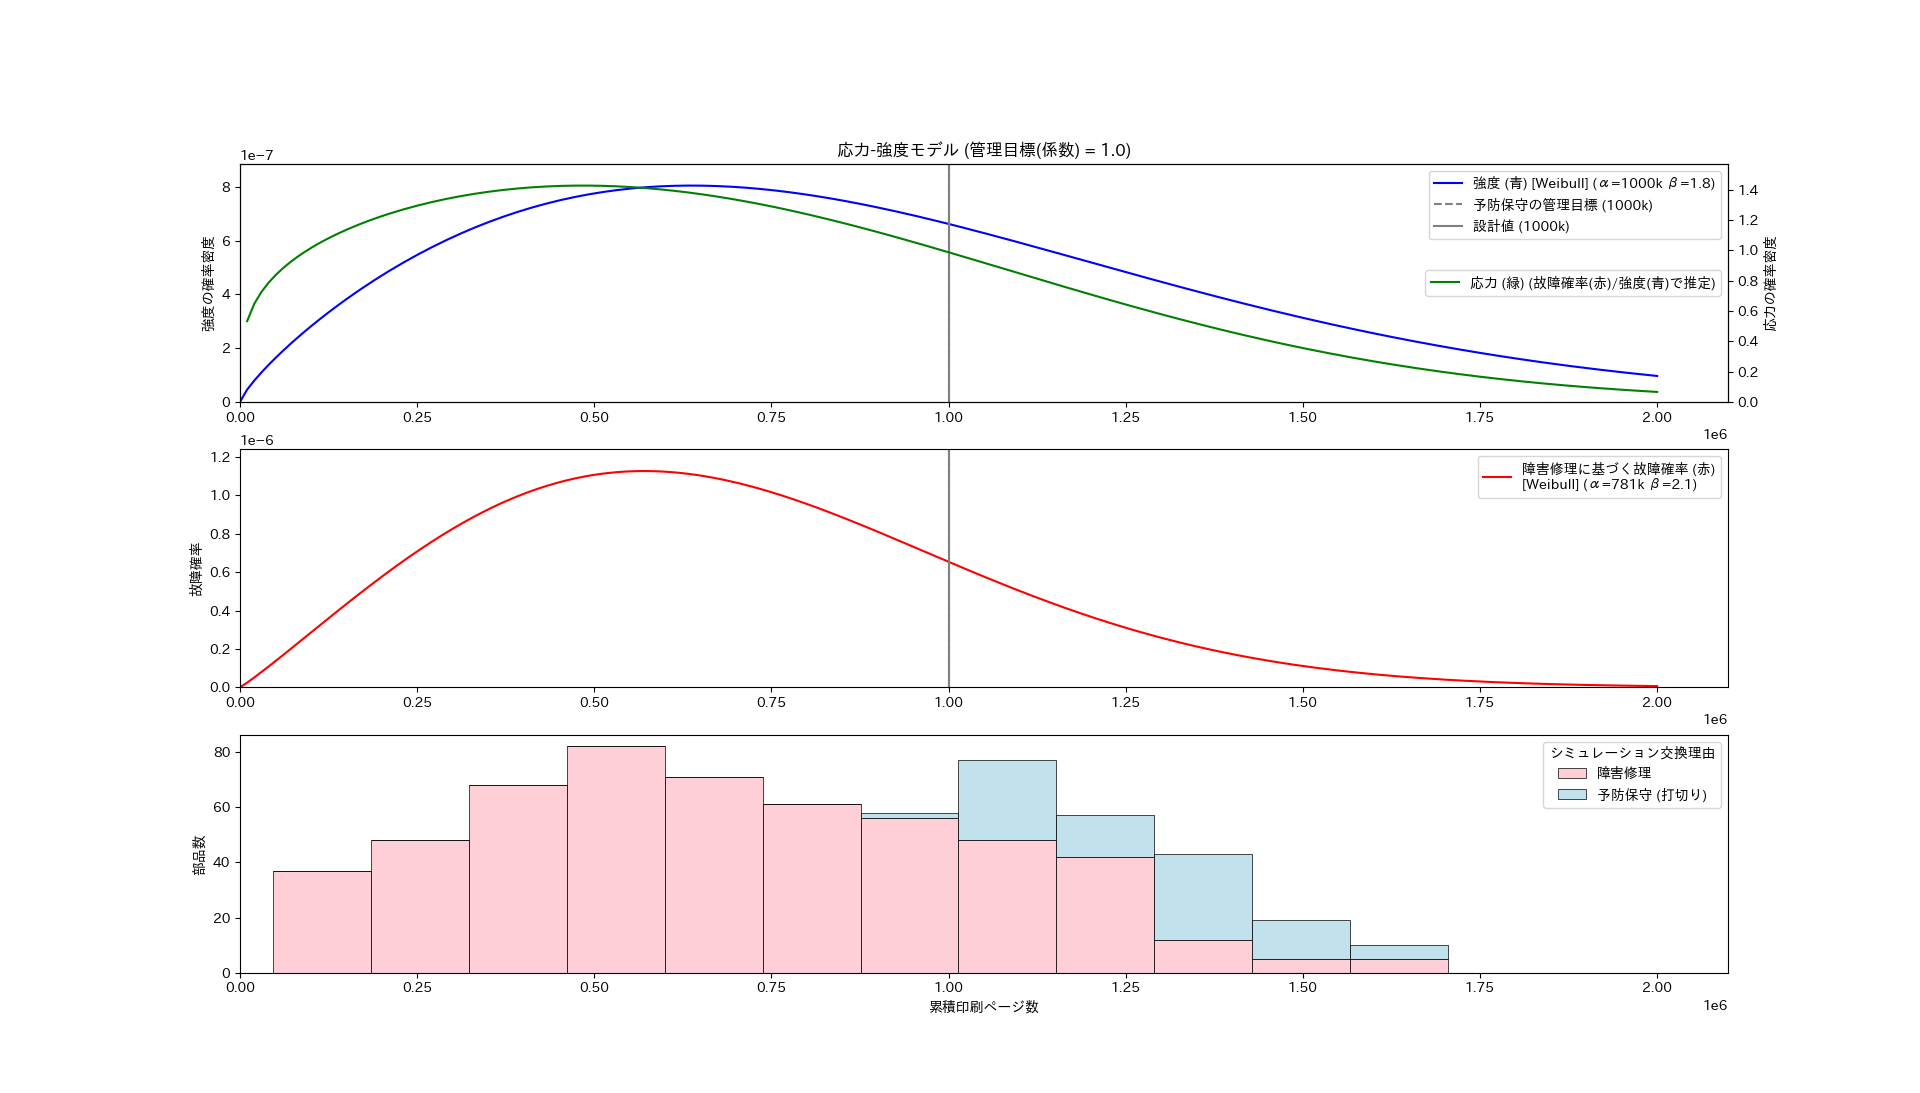
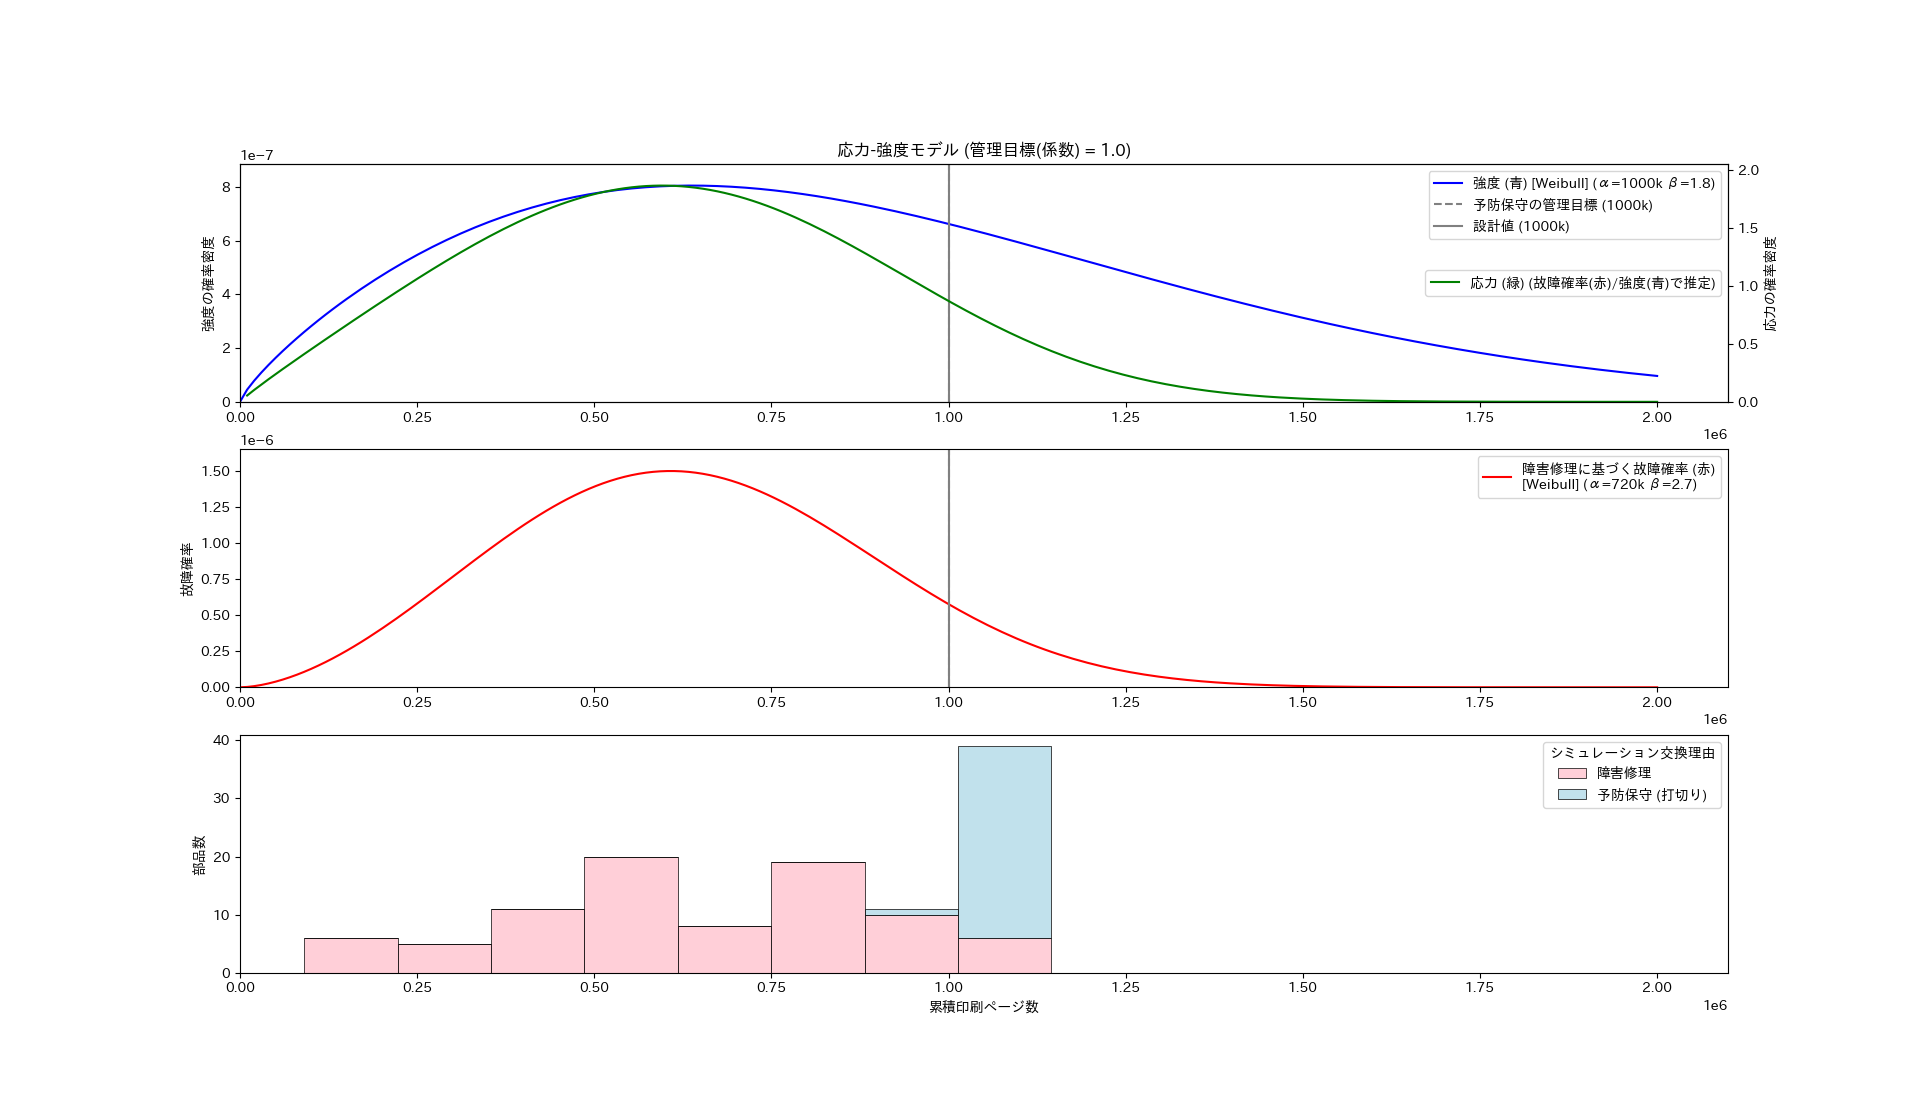
UPDATED

diff --git a/article2/sim_component_failure.py b/article2/sim_component_failure.py
@@ -156,23 +156,51 @@ class PrintJob():
     MAX_SET_PER_JOB = 2000  # 印刷部数の最大 (最小は1)
 
     def generate_customer_print_job(self):
-        '''顧客の未知パラメータに基づく印刷ジョブを作成'''
-        # トータルエリアカバレッジ
-        area_coverage_list = [0.10, 0.10]  # [平均(mu), 分散(sigma)]
-        mu, sigma = area_coverage_list
-        area_coverate = my_gauss(mu, sigma, upper_limit=2000, number_of_digits=2)
+        '''顧客の未知パラメータに基づく印刷ジョブを作成
+        印刷ジョブの属性:
+        - 印刷用紙サイズ(重み付きランダム)
+        - トータルエリアカバレッジ(用紙サイズにより分布は異なる)
+        - 印刷ジョブ長(用紙サイズにより分布は異なる)
+        - 両面/片面(μ=0.5, σ=0.3)
+        '''
+        # 未知パラメータ
+        area_coverage_lvl = 'M'
+        page_length_lvl   = 'L'
 
-        # 印刷用紙サイズ
-        customer_printed_matters = {'葉書': 0.0, 'A4': 1.0, 'B4':0.0, 'A3':0.0, '長尺':0.0} # サイズ:割合
+        # 印刷用紙サイズ (サイズ:割合の組、割合は合計1.0とする)
+        #   値は次のシミュレーション結果に基づく: name=PM1 try=9  [TYP=Q4 AC=M PL=L]  [葉  0 A4  5 B4  3 A3 46 長 46] loop=8933  ink=100 枚数比=0.90 ce1=0.53 ce2=3.27 → OK (総OK:1)★
+        customer_printed_matters = {'葉書': 0.0, 'A4': 0.05, 'B4':0.03, 'A3':0.46, '長尺':0.46}
+        assert sum([customer_printed_matters[key] for key, value in customer_printed_matters.items()]) == 1.0, f'dict customer_printed_matters の value の合計を 1.0 とする。'
         paper_size = random.choices(
                 list(customer_printed_matters.keys()),
                 weights = list(customer_printed_matters.values())
         )[0]
 
-        # 印刷ジョブ長さ
-        page_length_list = [300, 300]  # [平均(mu), 分散(sigma)]
-        page_length_mu, page_length_sigma = page_length_list
+        # トータルエリアカバレッジ
+        # area_coverage_list = [0.10, 0.10]  # [平均(mu), 分散(sigma)]
+        area_coverage_list = {
+            '葉書': {'L': [0.10, 0.10], 'M': [0.20, 0.10], 'H': [0.20, 0.20]},
+            'A4'  : {'L': [0.03, 0.05], 'M': [0.10, 0.10], 'H': [0.20, 0.20]},
+            'B4'  : {'L': [0.03, 0.05], 'M': [0.04, 0.10], 'H': [0.05, 0.20]},
+            'A3'  : {'L': [0.03, 0.05], 'M': [0.04, 0.10], 'H': [0.05, 0.20]},
+            '長尺': {'L': [0.10, 0.10], 'M': [0.30, 0.10], 'H': [0.50, 0.20]},
+        }
+        mu, sigma = area_coverage_list[paper_size][area_coverage_lvl]
+        area_coverate = my_gauss(mu, sigma, upper_limit=2000, number_of_digits=2)
+        # print_t(self.env, f'  area_coverate={area_coverate}')
+
+        # 印刷ジョブ長
+        # page_length_list = [300, 300]  # [平均(mu), 分散(sigma)]
+        page_length_list = {
+            '葉書': {'L': [0,  50], 'M': [  0, 100], 'H': [  0, 200]},
+            'A4'  : {'L': [0, 300], 'M': [300, 300], 'H': [500, 600]},
+            'B4'  : {'L': [0, 300], 'M': [300, 300], 'H': [500, 600]},
+            'A3'  : {'L': [0, 300], 'M': [300, 300], 'H': [500, 600]},
+            '長尺': {'L': [0,   5], 'M': [  0,  10], 'H': [  0,  30]},
+        }
+        page_length_mu, page_length_sigma = page_length_list[paper_size][page_length_lvl]
         page_length = int(my_gauss(page_length_mu, page_length_sigma, self.MAX_PAGE_LENGTH, 0))
+        # print_t(self.env, f'  page_length={page_length}')
 
         # 両面/片面
         duplex_rate_list = [0.5, 0.3]  # [平均(mu), 分散(sigma)]
@@ -183,6 +211,7 @@ class PrintJob():
         else:
             duplex_or_simplex = 'simplex'
 
+        # print_t(self.env, f'  ' + str((area_coverate, paper_size, page_length, duplex_or_simplex)))
         return (area_coverate, paper_size, page_length, duplex_or_simplex)
 
     def __init__(self, env, id, area_coverage=0.1, paper_size='A4', page_length=1, duplex_or_simplex='simplex'):
@@ -206,22 +235,29 @@ class ReplacementPart():
     '''交換部品 - 交換部品の生成, 部品ライフ進行(摩耗), 故障確率の算出
 
     単位:
-      部品ライフを [ページ] で表現する。用紙サイズの異なりを補正するため、[ページ] は「A4長辺」を1とする。
+      部品ライフを [A4短辺ページ] で表現する。用紙サイズの異なりを補正するため、[A4短辺ページ] は「A4短辺」を1とした無次元の量である。
+
+    例:
+      用紙サイズ=A3、ジョブ長=3の場合、部品にかかる負荷 ΔT = 用紙長比2.30 × ジョブ長3 = 6.90 [A4短辺ページ] となる。
     '''
 
-    # 用紙長比
+    # 用紙長比 (各用紙の1枚あたりの長さ。A4短辺を1とする。)
     paper_length_ratio = {
-        '葉書' : 148/210,    # 葉書長辺 / A4短辺 (タテ置き)
-        'A4'   : 210/210,    #   A4短辺 / A4短辺 (ヨコ置き)
-        'B4'   : 364/210,    #   B4長辺 / A4短辺 (タテ置き)
-        'A3'   : 483/210,    #   A3長辺 / A4短辺 (タテ置き)
-        '長尺' : 1200/210,   # 長尺長辺 / A4短辺 (タテ置き)
+        '葉書' : 148/210,    # 0.704 | 葉書長辺/A4短辺 | タテ置き
+        'A4'   : 210/210,    # 1.00  |   A4短辺/A4短辺 | ヨコ置き
+        'B4'   : 364/210,    # 1.73  |   B4長辺/A4短辺 | タテ置き
+        'A3'   : 483/210,    # 2.30  |   A3長辺/A4短辺 | タテ置き
+        '長尺' : 1200/210,   # 5.71  | 長尺長辺/A4短辺 | タテ置き
     }
 
     parts_life = None  # 偽のライフ実績 (list)
  
     def set_part_life_distribution(self):
-        '''部品ライフ分布を生成(ワイブル分布)'''
+        '''部品ライフ分布を生成(ワイブル分布)
+        印刷機全体の母集団における部品ライフを規定する。部品強度 F を与える。
+        本来は保守サービスを介して収集した部品ライフに基づいて設定するところだが、架空の印刷機のものとしてワイブル分布を仮定した。
+        部品ライフは無次元してA4短辺を1とした。
+        '''
         # (1) 正規分布
         # return int(random.gauss(1000000, 100000))  # 正規分布は負の部品ライフを生成するため適当でない
         # 
@@ -252,12 +288,12 @@ class ReplacementPart():
         self.env             = env
         self.set_part_life_distribution()  # 部品ライフ分布を生成(ワイブル分布)
 
-        self.life_limit      = int(        # 交換時の管理目標 [ページ]
-            params.designed_life *         # 部品ライフ設計値 [ページ]
+        self.life_limit      = int(        # 交換時の管理目標 [A4短辺ページ]
+            params.designed_life *         # 部品ライフ設計値 [A4短辺ページ]
             params.wearout_rate            # 部品ライフ設計値を1.0とした場合の管理目標(係数)
         )
-        self.cum_page_length_before = None  # 印刷ジョブ出力前の 累積印刷ページ数 [ページ]
-        self.cum_page_length_after  = 0     # 印刷ジョブ出力後の 累積印刷ページ数 [ページ]
+        self.cum_page_length_before = None  # 印刷ジョブ出力前の 累積印刷ページ数 [A4短辺ページ]
+        self.cum_page_length_after  = 0     # 印刷ジョブ出力後の 累積印刷ページ数 [A4短辺ページ]
 
         self.survival_prob_before = None    # 印刷ジョブ出力前の生存確率
 
@@ -275,23 +311,26 @@ class ReplacementPart():
 
     def wear(self, print_job):
         '''部品ライフ進行(摩耗)
+        累積印刷ページに「ページ長」を加算し、部品ライフを進行させる。
         ライフ進行の推定で利用可能な「未知パラメータ」:
           - self.area_coverage        トータルエリアカバレッジ
           - self.paper_size           用紙サイズ
-          - self.page_length_before          印刷ページ長 before
-          - self.page_length_after          印刷ページ長 after
+          - self.page_length_before   印刷ページ長 before [A4短辺ページ]
+          - self.page_length_after    印刷ページ長 after  [A4短辺ページ]
           - self.duplex_or_simplex    両面片面
         '''
         # 印刷ジョブ出力前の累積印刷ページ数を保存 (def failure(self) で必要)
         self.cum_page_length_before = self.cum_page_length_after
 
-        # 経年の計算: 「印刷ジョブページ長」×「用紙長比」を累積印刷ページ数に加算
+        # 経年の計算: 「印刷ジョブページ長」×「用紙長比」を累積印刷ページ数に加算する。両面/片面の別は考慮しない (片面ずつ印刷すると仮定した) 
         self.cum_page_length_after += (print_job.page_length * self.paper_length_ratio[print_job.paper_size])
 
         print_t(self.env, f'      累積印刷ページ数(ジョブ出力前): cum_page_length_before={self.cum_page_length_before} → 同(ジョブ出力後)cum_page_length_after={self.cum_page_length_after}')
 
     def failure(self):
-        '''故障確率の算出'''
+        '''故障確率の算出と生存-故障判断。部品が生存(False)するか故障する(True)か判断して返す。
+        部品強度 R に対応する生存関数(SF)を元に、印刷ジョブ出力前まで生き残った部品がさらに印刷ジョブの出力後まで生き残る確率 (条件付き生存率CS) を算出した。故障か故障でないか確率的に決定するために一様乱数を使用した。
+        '''
         print_t(self.env, f'      self.cum_page_length_before = {self.cum_page_length_before}')
         print_t(self.env, f'      self.cum_page_length_after  = {self.cum_page_length_after} (delta={ "----" if self.cum_page_length_before is None else self.cum_page_length_after - self.cum_page_length_before })')
 
@@ -317,8 +356,7 @@ class ReplacementPart():
         uniform_random_number = random.random()                 # 一様乱数を生成
         failure = conditional_survival < uniform_random_number  # 故障か故障でないか確率的な決定
 
-        print_t(self.env, f'      累積印刷ページ数(ジョブ出力後)={self.cum_page_length_after} (交換時の管理目標 {self.life_limit} 比: {(self.cum_page_length_after/self.life_limit*100):.2f}%) 条件付き生存確率={conditional_survival:0.5f} 一様乱数={uniform_random_number:0.5f} failure={failure} → { "故障★" if failure else "生存" }')
-
+        print_t(self.env, f'      累積印刷ページ数(ジョブ出力後)={self.cum_page_length_after} (交換時の管理目標 {self.life_limit} に対する比率: {(self.cum_page_length_after/self.life_limit*100):.2f}%) 条件付き生存確率={conditional_survival:0.5f} 一様乱数={uniform_random_number:0.5f} failure={failure} → { "故障★" if failure else "生存" }')
 
         # (次回の印刷ジョブ出力に備えて) 「印刷ジョブ出力後」の生存確率を保存 (処理時間を削減するため)
         self.survival_prob_before = survival_prob_after
@@ -339,7 +377,9 @@ class MaintenanceWork():
         self.customer_engineer = simpy.Resource(env, capacity=num_engineers) # 環境にリソース追加(保守エンジニア)
 
     def preventive_maintenance_setup_process(self, check_interval):
-        '''印刷機の予防保守のスケジュールと実施プロセス'''
+        '''印刷機の予防保守のスケジュールと実施プロセス
+        予防保守の作業を記述する。予防保守の実施間隔 (check_interval) は、保守サービスの管理目標値として規定される (デフォルト: 10日間)。予防保守の作業内容は、部品ライフが計画部品ライフを超えていたら部品を交換し、次回の予防保守をスケジュールする。なお、交換の際はリソース (エンジニアと印刷機ユニット) の確保を要するとした。
+        '''
         def local_print_t(s):
             print_t(self.env, s)
             pass
@@ -395,7 +435,7 @@ class MaintenanceWork():
 class PrintingMachine(object):
     '''印刷機ユニット'''
 
-    PRINTING_SPEED  = 30   # 印刷速度 [ページ/分]
+    PRINTING_SPEED  = 30   # 印刷速度 [A4短辺ページ/分]
 
     def __init__(self, env, id, num_printing_units=1, num_engineers=1):
         self.env = env
@@ -411,8 +451,9 @@ class PrintingMachine(object):
             end_event.succeed()
 
     def preventive_maintenance_process(self):
-        '''予防保守実行プロセス'''
-
+        '''予防保守実行プロセス
+        エンジニアによる部品の交換を記述した。計画内の作業であるため印刷機を止める作業時間を短くした (30分)。
+        '''
         print_t(self.env, f'    予防保守: BEGIN')
         # インストールされた交換部品を記録
         try:
@@ -446,7 +487,9 @@ class PrintingMachine(object):
         # sys.exit(1)
 
     def corrective_maintenance_process(self):
-        '''障害修理実行プロセス'''
+        '''障害修理実行プロセス
+        予防保守と同様に、エンジニアによる部品の交換であるが、計画外の作業であるため印刷機を止める作業時間を長くした (60-90分)。
+        '''
         print_t(self.env, f'    障害修理: BEGIN')
         # インストールされた交換部品を記録
         try:
@@ -475,8 +518,9 @@ class PrintingMachine(object):
         # sys.exit(1)
 
     def printout_process(self, print_job):
-        '''印刷実行プロセス(含む部品ライフ進行(摩耗))'''
-
+        '''印刷実行プロセス(含む部品ライフ進行(摩耗))
+        印刷ジョブを出力を記述する。印刷の所要時間は、印刷ジョブ長/印刷速度 とした。その後、部品ライフを進行させた。
+        '''
         # 印刷ジョブの出力
         print_t(self.env, f'    印刷ジョブの出力: BEGIN {print_job}')
         yield self.env.timeout(
@@ -502,7 +546,7 @@ def printing_printjob_process(env, print_job, printer):
         yield request  # raise a event
         print_t(print_job.env, f'    印刷機ユニットを確保 request終了')
 
-        # 故障確率の算出と故障判断
+        # 故障確率の算出と生存-故障判断
         if printer.replacement_part.failure():
             succeeds = False
             print_t(print_job.env, f' ★故障')
@@ -533,7 +577,9 @@ def printing_printjob_process(env, print_job, printer):
 # end-of def printing_printjob_process
 
 def printingmachine_simulator_process(env, num_printing_units, num_engineers):
-    '''印刷シミュレーションプロセス'''
+    '''印刷シミュレーションプロセス
+    シミュレーション環境を構築し、さまざまな初期化をした後、シミュレーション中の印刷ジョブを生成する。シミュレーションは内部時計が上限を超過するか、交換部品数が所定数に達したら終了する。
+    '''
 
     # 印刷機ユニット作成
     print_t(env, f'印刷機ユニット作成: BEGIN')
@@ -597,7 +643,7 @@ def simulation_parameters_str(params):
     result = (
         # f'args={args}' + '\n'\
         # f'管理目標の係数: {params.wearout_rate}' + ' ' + 
-        f'部品ライフ設計値: {int(params.designed_life/1000)}k [ページ]' + ' ' + 
+        f'部品ライフ設計値: {int(params.designed_life/1000)}k [A4短辺ページ]' + ' ' + 
         f'(β={params.beta}' + ' ' + 
         f',η={int(params.eta/1000)}k)' + ' ' + 
         # f'{args.check_interval}' + ' ' + 
@@ -663,6 +709,7 @@ def show_stress_strength_chart(params, wearout_rates, result_all_df):
             show_probability_plot=False,
             print_results=False
         ).distribution
+        # parts_exchange_dist.plot()
 
         label = f'障害修理に基づく故障確率 (赤)\n[Weibull] (α=' + '{:.0f}'.format(parts_exchange_dist.alpha/1000) + 'k' + f' β={parts_exchange_dist.beta:.1f})'
         simulated_failures = parts_exchange_dist.PDF(xvals=xvals, show_plot=True, label=label, color='r')
@@ -939,7 +986,7 @@ def main():
         result = \
             f'args={args}' + '\n'\
             f'予防保守の管理目標(係数)  args.wearout_rate   = {args.wearout_rate}' + '\n'\
-            f'部品ライフ設計値          args.designed_life  = {args.designed_life} [ページ]' + '\n'\
+            f'部品ライフ設計値          args.designed_life  = {args.designed_life} [A4短辺ページ]' + '\n'\
             f'部品ライフ形状パラメータ  args.beta           = {args.beta}' + '\n'\
             f'部品ライフ尺度パラメータ  args.eta            = {args.eta}' + '\n'\
             f'保守間隔                  args.check_interval = {args.check_interval}' + '\n'\

diff --git a/article2/README.md b/article2/README.md
@@ -95,9 +95,9 @@ permalink: /article2/
 
 <div align="center">
   <figure>
-    <img src="img/印刷機の保守モデル.png"/>
+    <img src="img/印刷機保守のシミュレーションモデル.png"/>
 	<br/>
-    <figcaption>図. 印刷機保守のシミュレーションモデル (<a href="img/印刷機の保守モデル.png" target="_blank">拡大</a>)</figcaption>
+    <figcaption>図. 印刷機保守のシミュレーションモデル (<a href="img/印刷機保守のシミュレーションモデル.png" target="_blank">拡大</a>)</figcaption>
   </figure>
 </div>
 
